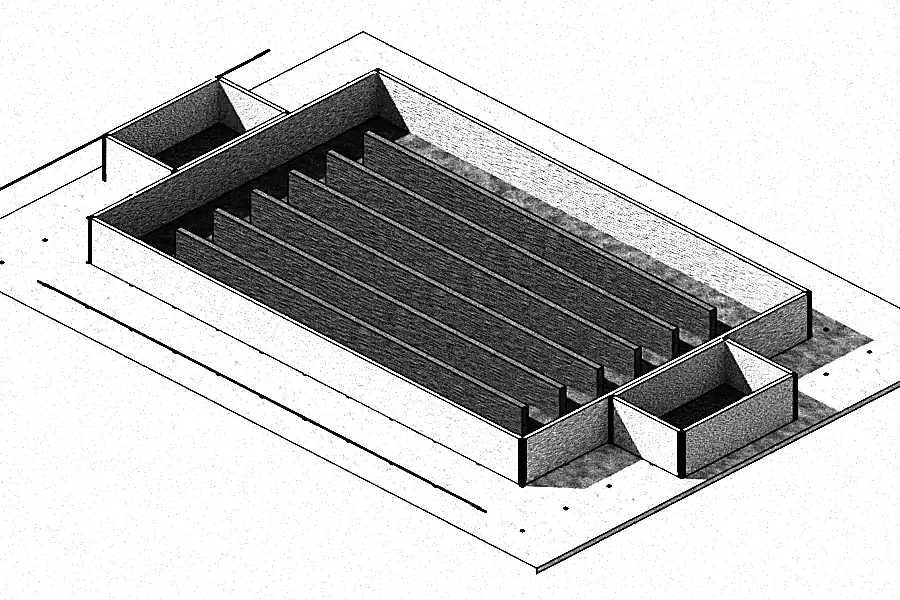
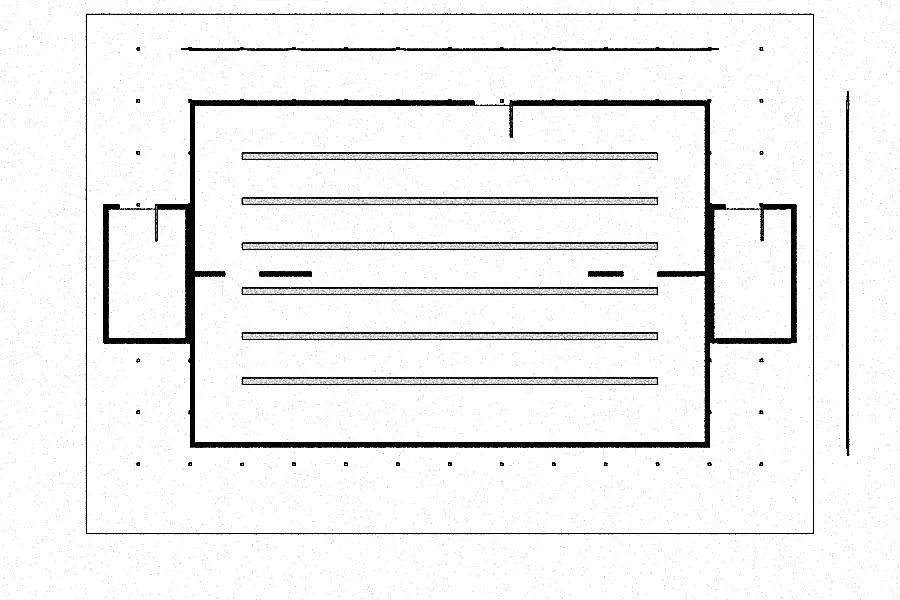
r368: flat thick-wall plan plates (closer to the reference grammar)

diff --git a/scripts/art/blender/plate.py b/scripts/art/blender/plate.py
@@ -3,6 +3,7 @@ import bpy, sys, math, random
 from mathutils import Vector
 a = sys.argv[sys.argv.index('--')+1:]
 out, W, H, S, kind = a[0], int(a[1]), int(a[2]), int(a[3]), a[4]
+FLAT = len(a) > 5 and a[5] == 'flat'   # top-down plan view instead of iso
 random.seed(abs(hash(kind)) % 1000 if False else sum(map(ord, kind)))
 bpy.ops.wm.read_factory_settings(use_empty=True)
 sc = bpy.context.scene
@@ -19,16 +20,33 @@ def mat(col, tex=50):
     l.new(t.outputs['Fac'],r.inputs['Fac']); l.new(r.outputs['Color'],bs.inputs['Base Color'])
     bu=n.new('ShaderNodeBump'); bu.inputs['Strength'].default_value=.5; l.new(t.outputs['Fac'],bu.inputs['Height']); l.new(bu.outputs['Normal'],bs.inputs['Normal']); return m
 conc=mat(.64); dk=mat(.2,30)
+def emis(v):
+    m=bpy.data.materials.new('e'); m.use_nodes=True; n=m.node_tree.nodes; l=m.node_tree.links
+    for x in list(n): n.remove(x)
+    e=n.new('ShaderNodeEmission'); e.inputs['Color'].default_value=(v,v,v,1); o=n.new('ShaderNodeOutputMaterial'); l.new(e.outputs[0],o.inputs[0]); return m
+paper=emis(1.0); fl=dk
+if FLAT: conc=emis(.06); dk=emis(.4); fl=emis(.9); paper=emis(1.0)
 def box(x0,x1,y0,y1,z0,z1,m=conc):
     bpy.ops.mesh.primitive_cube_add(); o=bpy.context.object
     o.location=((x0+x1)/2,(y0+y1)/2,(z0+z1)/2); o.scale=((x1-x0)/2,(y1-y0)/2,(z1-z0)/2); o.data.materials.append(m)
-def room(x,y,w,d,h,t=.25,door=True):  # walled room without roof (cut-away plan)
-    box(x,x+w,y,y+t,0,h); box(x,x+w,y+d-t,y+d,0,h); box(x,x+t,y,y+d,0,h); box(x+w-t,x+w,y,y+d,0,h)
-    box(x+t,x+w-t,y+t,y+d-t,0,.1,dk)
+def room(x,y,w,d,h,t=.25,door=True):  # walled room without roof (cut-away plan); front wall has a door gap
+    g=2.2
+    mx=x+w*0.38
+    box(x,mx,y,y+t,0,h); box(mx+g,x+w,y,y+t,0,h)
+    box(x,x+w,y+d-t,y+d,0,h); box(x,x+t,y,y+d,0,h); box(x+w-t,x+w,y,y+d,0,h)
+    box(x+t,x+w-t,y+t,y+d-t,0,.1,fl)
+    if FLAT: box(mx,mx+0.12,y,y+g*0.95,0,.2,dk)   # door leaf (swing line stand-in)
+def part(x0,y0,x1,y1,h=2.4,gap=None):  # interior partition with an optional door gap
+    if x0==x1:
+        if gap: box(x0-.12,x0+.12,y0,gap[0],0,h); box(x0-.12,x0+.12,gap[1],y1,0,h)
+        else: box(x0-.12,x0+.12,y0,y1,0,h)
+    else:
+        if gap: box(x0,gap[0],y0-.12,y0+.12,0,h); box(gap[1],x1,y0-.12,y0+.12,0,h)
+        else: box(x0,x1,y0-.12,y0+.12,0,h)
 def seats(x,y,rows,cols,dx=1.1,dy=1.0):
     for i in range(rows):
         for j in range(cols): box(x+j*dx,x+j*dx+.7,y+i*dy,y+i*dy+.4,0,.45,dk)
-box(-21,21,-15,15,-.3,0)
+box(-21,21,-15,15,-.3,0,paper if FLAT else conc)
 if kind=='lecture':
     room(-14,-9,28,18,2.4); seats(-10,-6,7,17); box(-9,9,6,7,0,.5,dk); room(-14,10,10,6,2.4)
 elif kind=='library':
@@ -55,6 +73,11 @@ elif kind=='lab':
         box(-10+i*8.5,-8.5+i*8.5,-1,0.3,1.1,1.4,dk)
     box(-12,12,5,5.6,0,1.1,dk); box(-12,12,6.4,7,0,1.1,dk); box(-8,-7.7,-8.8,9,0,2.6,conc); box(4,4.3,-8.8,9,0,2.6,conc)
     room(-20,-3,6,6,2.6); box(10,13,-8,-5,0,2.2,dk)
+if kind=='lecture': part(-4,-9,-4,-5,gap=None); part(4,-9,4,-5)
+if kind=='library': part(-15,0,-8,0,gap=(-12,-10)); part(8,0,15,0,gap=(11,13))
+if kind=='exam': part(-13,-3,-9,-3,gap=(-12,-10)); part(9,-3,13,-3)
+if kind=='admin': part(-8,-8,-8,-3,gap=None); part(-16,0,-8,0,gap=(-13,-11)); part(8,-8,8,-1)
+if kind=='lab': part(-14,-1,-6,-1,gap=(-11,-9)); part(6,-1,14,-1,gap=(9,11)); part(0,-9,0,-4)
 def dim(x0,y0,x1,y1):  # dimension string with end ticks
     box(min(x0,x1),max(x0,x1)+.08,min(y0,y1),max(y0,y1)+.08,0,.03,dk)
     for (x,y) in ((x0,y0),(x1,y1)): box(x-.5 if y0==y1 else x-.04,x+.5 if y0==y1 else x+.04,y-.04 if y0==y1 else y-.5,y+.04 if y0==y1 else y+.5,0,.03,dk)
@@ -72,8 +95,8 @@ vl=bpy.context.view_layer; vl.use_freestyle=True
 ls=vl.freestyle_settings.linesets.new('ink') if not vl.freestyle_settings.linesets else vl.freestyle_settings.linesets[0]
 ls.linestyle=bpy.data.linestyles.new('ls'); ls.select_silhouette=True; ls.select_border=True; ls.select_crease=True
 ls.linestyle.color=(0.02,0.02,0.02); ls.linestyle.thickness=1.3
-bpy.ops.object.light_add(type='SUN'); s=bpy.context.object; s.rotation_euler=(math.radians(50),0,math.radians(-50)); s.data.energy=5; s.data.angle=math.radians(1.2)
+bpy.ops.object.light_add(type='SUN'); s=bpy.context.object; s.rotation_euler=(math.radians(50),0,math.radians(-50)); s.data.energy=0.3 if FLAT else 5; s.data.angle=math.radians(1.2)
 bpy.ops.object.camera_add(); c=bpy.context.object
-d=Vector((1,-1,.85)).normalized()*60; c.location=d; c.rotation_euler=(-d).to_track_quat('-Z','Y').to_euler()
-c.data.type='ORTHO'; c.data.ortho_scale=(58 if kind=='campus' else 44); sc.camera=c
+d=(Vector((0.0001,-0.0001,1)).normalized() if FLAT else Vector((1,-1,.85)).normalized())*60; c.location=d+(Vector((0,1.5,0)) if FLAT else Vector((0,0,0))); c.rotation_euler=(-d).to_track_quat('-Z','Y').to_euler()
+c.data.type='ORTHO'; c.data.ortho_scale=((62 if kind=='campus' else 52) if FLAT else (58 if kind=='campus' else 44)); sc.camera=c
 bpy.ops.render.render(write_still=True)

diff --git a/scripts/art/blender/README.md b/scripts/art/blender/README.md
@@ -3,3 +3,4 @@ Tooling (installed in /tmp only, never committed): Blender 3.6.19 LTS (GPL-3.0; 
 Run: `blender -b -P hero.py -- /tmp/raw.png 1440 700 24` then `ink.sh /tmp/raw.png out.webp`.
 Output committed: `frontend/src/assets/art-v2/hero-elevation-bl.webp` (~190 KB, desktop only; phones keep the vector). Procedural scene, no imported assets, no image-generation API.
 Hero is rendered in two passes (1 CPU / 2GB sandbox): `hero.py ... bld` (building, Freestyle ink outlines) and `hero.py ... tree` (trees only), composited with `convert bld.png tree.png -compose Over -composite`, then `ink.sh`. A single pass with Freestyle over the trees crashes.
+plate.py accepts a trailing 'flat' arg for top-down plan renders (same licences).

diff --git a/docs/redesign/r368/LEDGER.md b/docs/redesign/r368/LEDGER.md
@@ -159,3 +159,4 @@ NEXT: origin/main sync ~9:50pm; remaining gaps 06 layout, hero photo look, no-co
 - r368 hero v3: two-pass Blender render (building w/ Freestyle ink outlines + trees), light+dark verified
 - r368 hero v4: punched openings, railings, entrance recess+canopy, pergola, planters, pilotis, tower slits
 - r368 hero v5: weathering (vertical rain streaks + blotchy stains) on concrete; light+dark verified
+- r368 flat thick-wall plan plates replace iso plates (06/07), plate.py flat option. NEXT: royal dots/dashed lines on plates, 06 collage, mobile hero raster.
